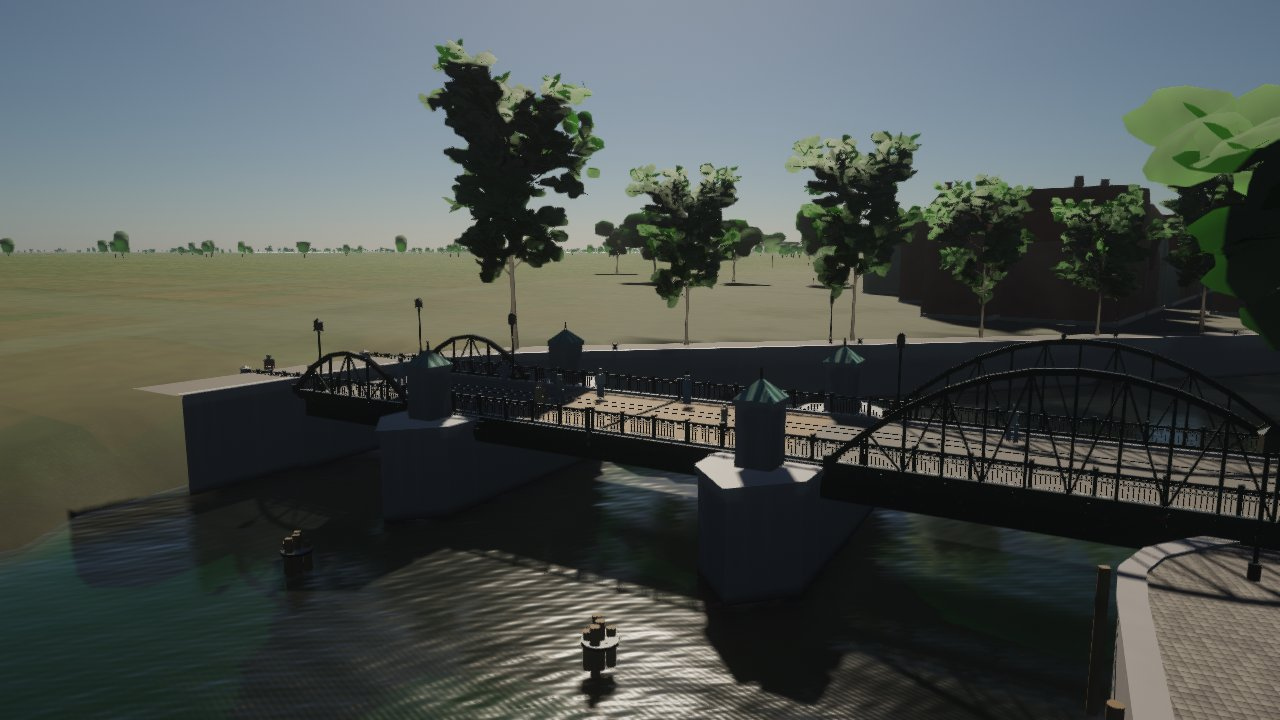
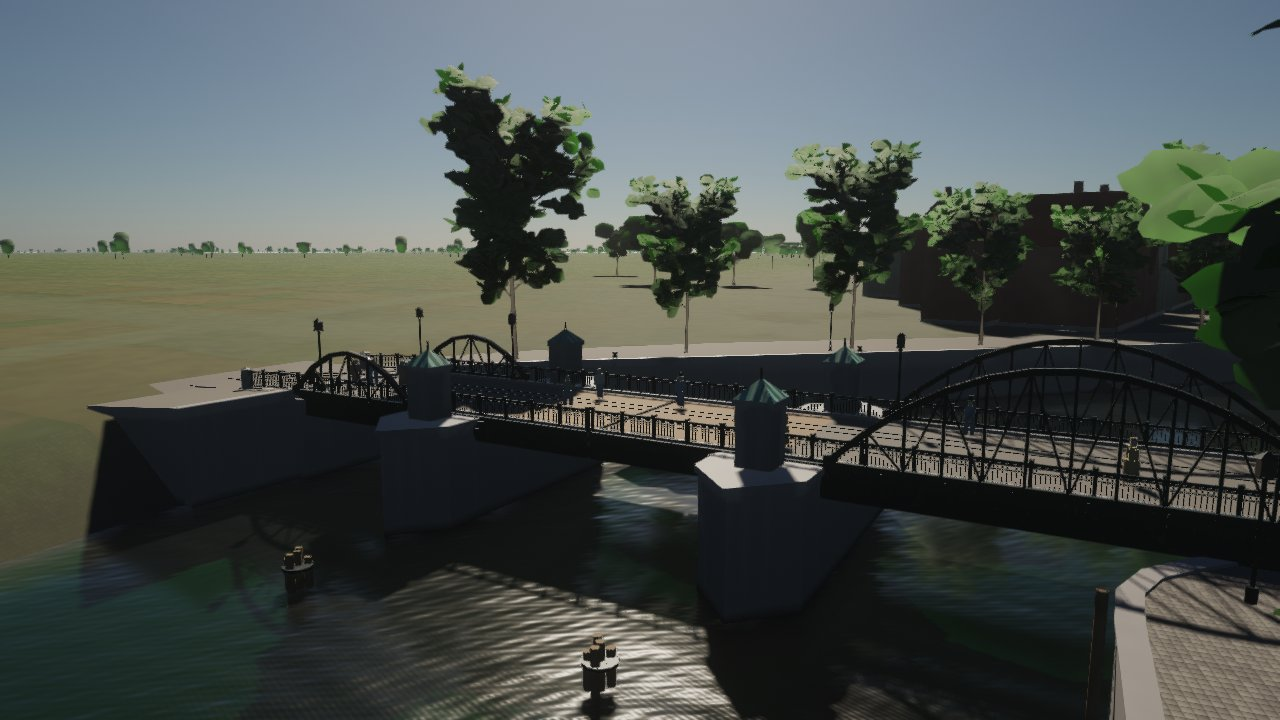
Gelände mischt Kai und Wiesenufer stetig: keine Wellen mehr an der Hohen Brücke
Site.height schaltete hart zwischen Kai- und Wiesenformel um, je nach
Site.isQuay. An Ufern, deren Bodenart genau an der Schwelle liegt (neben der
Hohen Brücke 0,44 bis 0,46 bei Schwelle 0,45), flackerte isQuay von Punkt zu
Punkt, und das Gelände sprang um bis zu 1,8 m. Der Vorplatz erbte das über
die Außenkante des Kaipflasters als Sprung von 1,4 m innerhalb eines Feldes
und warf Wellen.

Site.quayShare liefert jetzt den Kai-Anteil mit weichem Übergang; isQuay
heißt quayShare > 0,5 und bleibt so wie bisher. Site.height mischt Flussbett
und Ufer stetig nach diesem Anteil. Ufer mit eindeutiger Bodenart und der
ganze Kneiphof bleiben unverändert.

Claude-Session: https://claude.ai/code/session_011MTtUMHyAnSZggazDGs4wt

diff --git a/src/com/dan/kneiphof/world/Site.java b/src/com/dan/kneiphof/world/Site.java
@@ -115,34 +115,44 @@ public final class Site {
      * die Ufer als Wiese flach ins Wasser.
      */
     public static boolean isQuay(double x, double z) {
-        if (onKneiphof(x, z)) return true;
-        if (onLomse(x, z)) return x < 950;
-        if (Math.abs(x) > 1700) return false;
-        float[] c = new float[4];
-        cover(x, z, c);
-        return c[0] > 0.45f;
+        return quayShare(x, z) > 0.5;
     }
 
     /** So breit liegt der Boden hinter einer Kaimauer tiefer als das Kaipflaster (Meter ab der Mauer). */
     public static final double QUAY_SINK = 4.2;
 
+    /**
+     * Wie sehr ist hier Kai (1) statt Wiesenufer (0)? Dieselbe Regel wie {@link #isQuay}, aber mit weichem Übergang
+     * (isQuay ist genau dann wahr, wenn dieser Wert über 0,5 liegt). An Ufern, deren Bodenart nahe der Schwelle liegt,
+     * springt isQuay von Punkt zu Punkt; das Gelände darf dort nicht mitspringen.
+     */
+    public static double quayShare(double x, double z) {
+        if (onKneiphof(x, z)) return 1;
+        if (onLomse(x, z)) return smooth(960, 940, x);
+        if (Math.abs(x) > 1700) return 0;
+        float[] c = new float[4];
+        cover(x, z, c);
+        return smooth(0.35, 0.55, c[0]);
+    }
+
     /** Geländehöhe über dem Wasserspiegel. */
     public static double height(double x, double z) {
         double w = Math.min(water(x, z), haff(x, z));
-        // Hinter der Kaimauer bleibt das Pflaster eben bis dorthin, wo auch das Wiesenufer die Landhöhe erreicht
-        // (30 m); sonst sackte es ab 8 m in eine Mulde, in der die Brückenauffahrten mit einer Stufe endeten.
-        boolean quay = w > -8 && w < 30 && isQuay(x, z);
+        // Kai und Wiesenufer stetig nach dem Kai-Anteil gemischt. Hinter der Kaimauer bleibt das Pflaster eben bis
+        // dorthin, wo auch das Wiesenufer die Landhöhe erreicht (30 m); sonst sackte es ab 8 m in eine Mulde, in der
+        // die Brückenauffahrten mit einer Stufe endeten.
+        double q = w > -8 && w < 30 ? quayShare(x, z) : 0;
         if (w < 0) {
             // Flussbett: an der Kaimauer sofort 2 m tief, am flachen Ufer langsam; in der Mitte bis 6 m
-            return quay ? -2.0 - Math.min(4.0, -w * 0.2) : -0.3 - Math.min(5.7, -w * 0.18);
+            double quayBed = -2.0 - Math.min(4.0, -w * 0.2), meadowBed = -0.3 - Math.min(5.7, -w * 0.18);
+            return meadowBed + (quayBed - meadowBed) * q;
         }
         double land = base(x, z);
-        if (quay) {
-            // Hinter der Kaimauer liegt der Boden unter dem Kaipflaster; erst ab 4 m frei
-            return -2.0 + (land + 2.0) * smooth(0.4, QUAY_SINK, w);
-        }
+        // Hinter der Kaimauer liegt der Boden unter dem Kaipflaster; erst ab 4 m frei
+        double quay = -2.0 + (land + 2.0) * smooth(0.4, QUAY_SINK, w);
         // Wiesenufer: auf den ersten 10 m flach ansteigend, am Wasser etwas tiefer
-        return -0.3 + (land + 0.3) * smooth(0, 10, w) * (0.75 + 0.25 * smooth(10, 30, w));
+        double meadow = -0.3 + (land + 0.3) * smooth(0, 10, w) * (0.75 + 0.25 * smooth(10, 30, w));
+        return meadow + (quay - meadow) * q;
     }
 
     /** Landhöhe ohne Ufer (Höhe der Kaikante, des Pflasters, der Wiese). */

diff --git a/README.md b/README.md
@@ -131,7 +131,7 @@ Die Auffahrten gehen ohne Stufe in die Straße über. Ihr Längsschnitt folgt ei
 
 ![Vorplatz der Hohen Brücke: vom Kai zur Wiese](docs/bilder/p14_hohe_vorplatz.jpg)
 
-Vor jeder Auffahrt liegt ein gepflasterter Brückenvorplatz: an der Kaimauer breit, am Ende der Auffahrt schmal. Er fasst Auffahrt und Kaipflaster zu einem Umriss zusammen. Er folgt demselben Profil wie das Kaipflaster, liegt 3 cm darüber und nie unter dem gezeichneten Geländenetz (`TerrainMesh.surfaceHeight`). Das Netz ist grob und liegt zwischen seinen Punkten stellenweise höher als `Site.height`. Die Auffahrt endet quer über ihre ganze Breite auf der Höhe des Platzes; an der Hohen Brücke fällt der Platz dort schräg zur Wiese ab. Das Kaipflaster reicht so weit ins Land, wie die Senke hinter der Mauer im groben Geländenetz reichen kann, damit dahinter keine Löcher klaffen. Zum Wasser hin endet der Platz an der Innenkante des Kai-Decksteins, als glatte Linie entlang der Mauer statt in 1-m-Stufen; am Wiesenufer bleibt er einige Meter vor dem Wasser. Ob Kai oder Wiese, bestimmen die Uferzüge von `Banks`, stetig nach Abstand gewichtet. Wo ein Kaizug endet, biegt die Mauer als Wangenmauer ins Land ab, damit das Kaipflaster nicht offen über der Böschung hängt.
+Vor jeder Auffahrt liegt ein gepflasterter Brückenvorplatz: an der Kaimauer breit, am Ende der Auffahrt schmal. Er fasst Auffahrt und Kaipflaster zu einem Umriss zusammen. Er folgt demselben Profil wie das Kaipflaster, liegt 3 cm darüber und nie unter dem gezeichneten Geländenetz (`TerrainMesh.surfaceHeight`). Das Netz ist grob und liegt zwischen seinen Punkten stellenweise höher als `Site.height`. Die Auffahrt endet quer über ihre ganze Breite auf der Höhe des Platzes; an der Hohen Brücke fällt der Platz dort schräg zur Wiese ab. Das Kaipflaster reicht so weit ins Land, wie die Senke hinter der Mauer im groben Geländenetz reichen kann, damit dahinter keine Löcher klaffen. Zum Wasser hin endet der Platz an der Innenkante des Kai-Decksteins, als glatte Linie entlang der Mauer statt in 1-m-Stufen; am Wiesenufer bleibt er einige Meter vor dem Wasser. Ob Kai oder Wiese, bestimmen die Uferzüge von `Banks`, stetig nach Abstand gewichtet. Wo ein Kaizug endet, biegt die Mauer als Wangenmauer ins Land ab, damit das Kaipflaster nicht offen über der Böschung hängt. Das Gelände selbst mischt Kai- und Wiesenufer stetig nach dem Kai-Anteil (`Site.quayShare`), statt hart umzuschalten: An Ufern, deren Bodenart nahe der Schwelle liegt, sprang es sonst um bis zu 1,8 m, und Pflaster darüber warf Wellen.
 
 ## Bedienung
 
